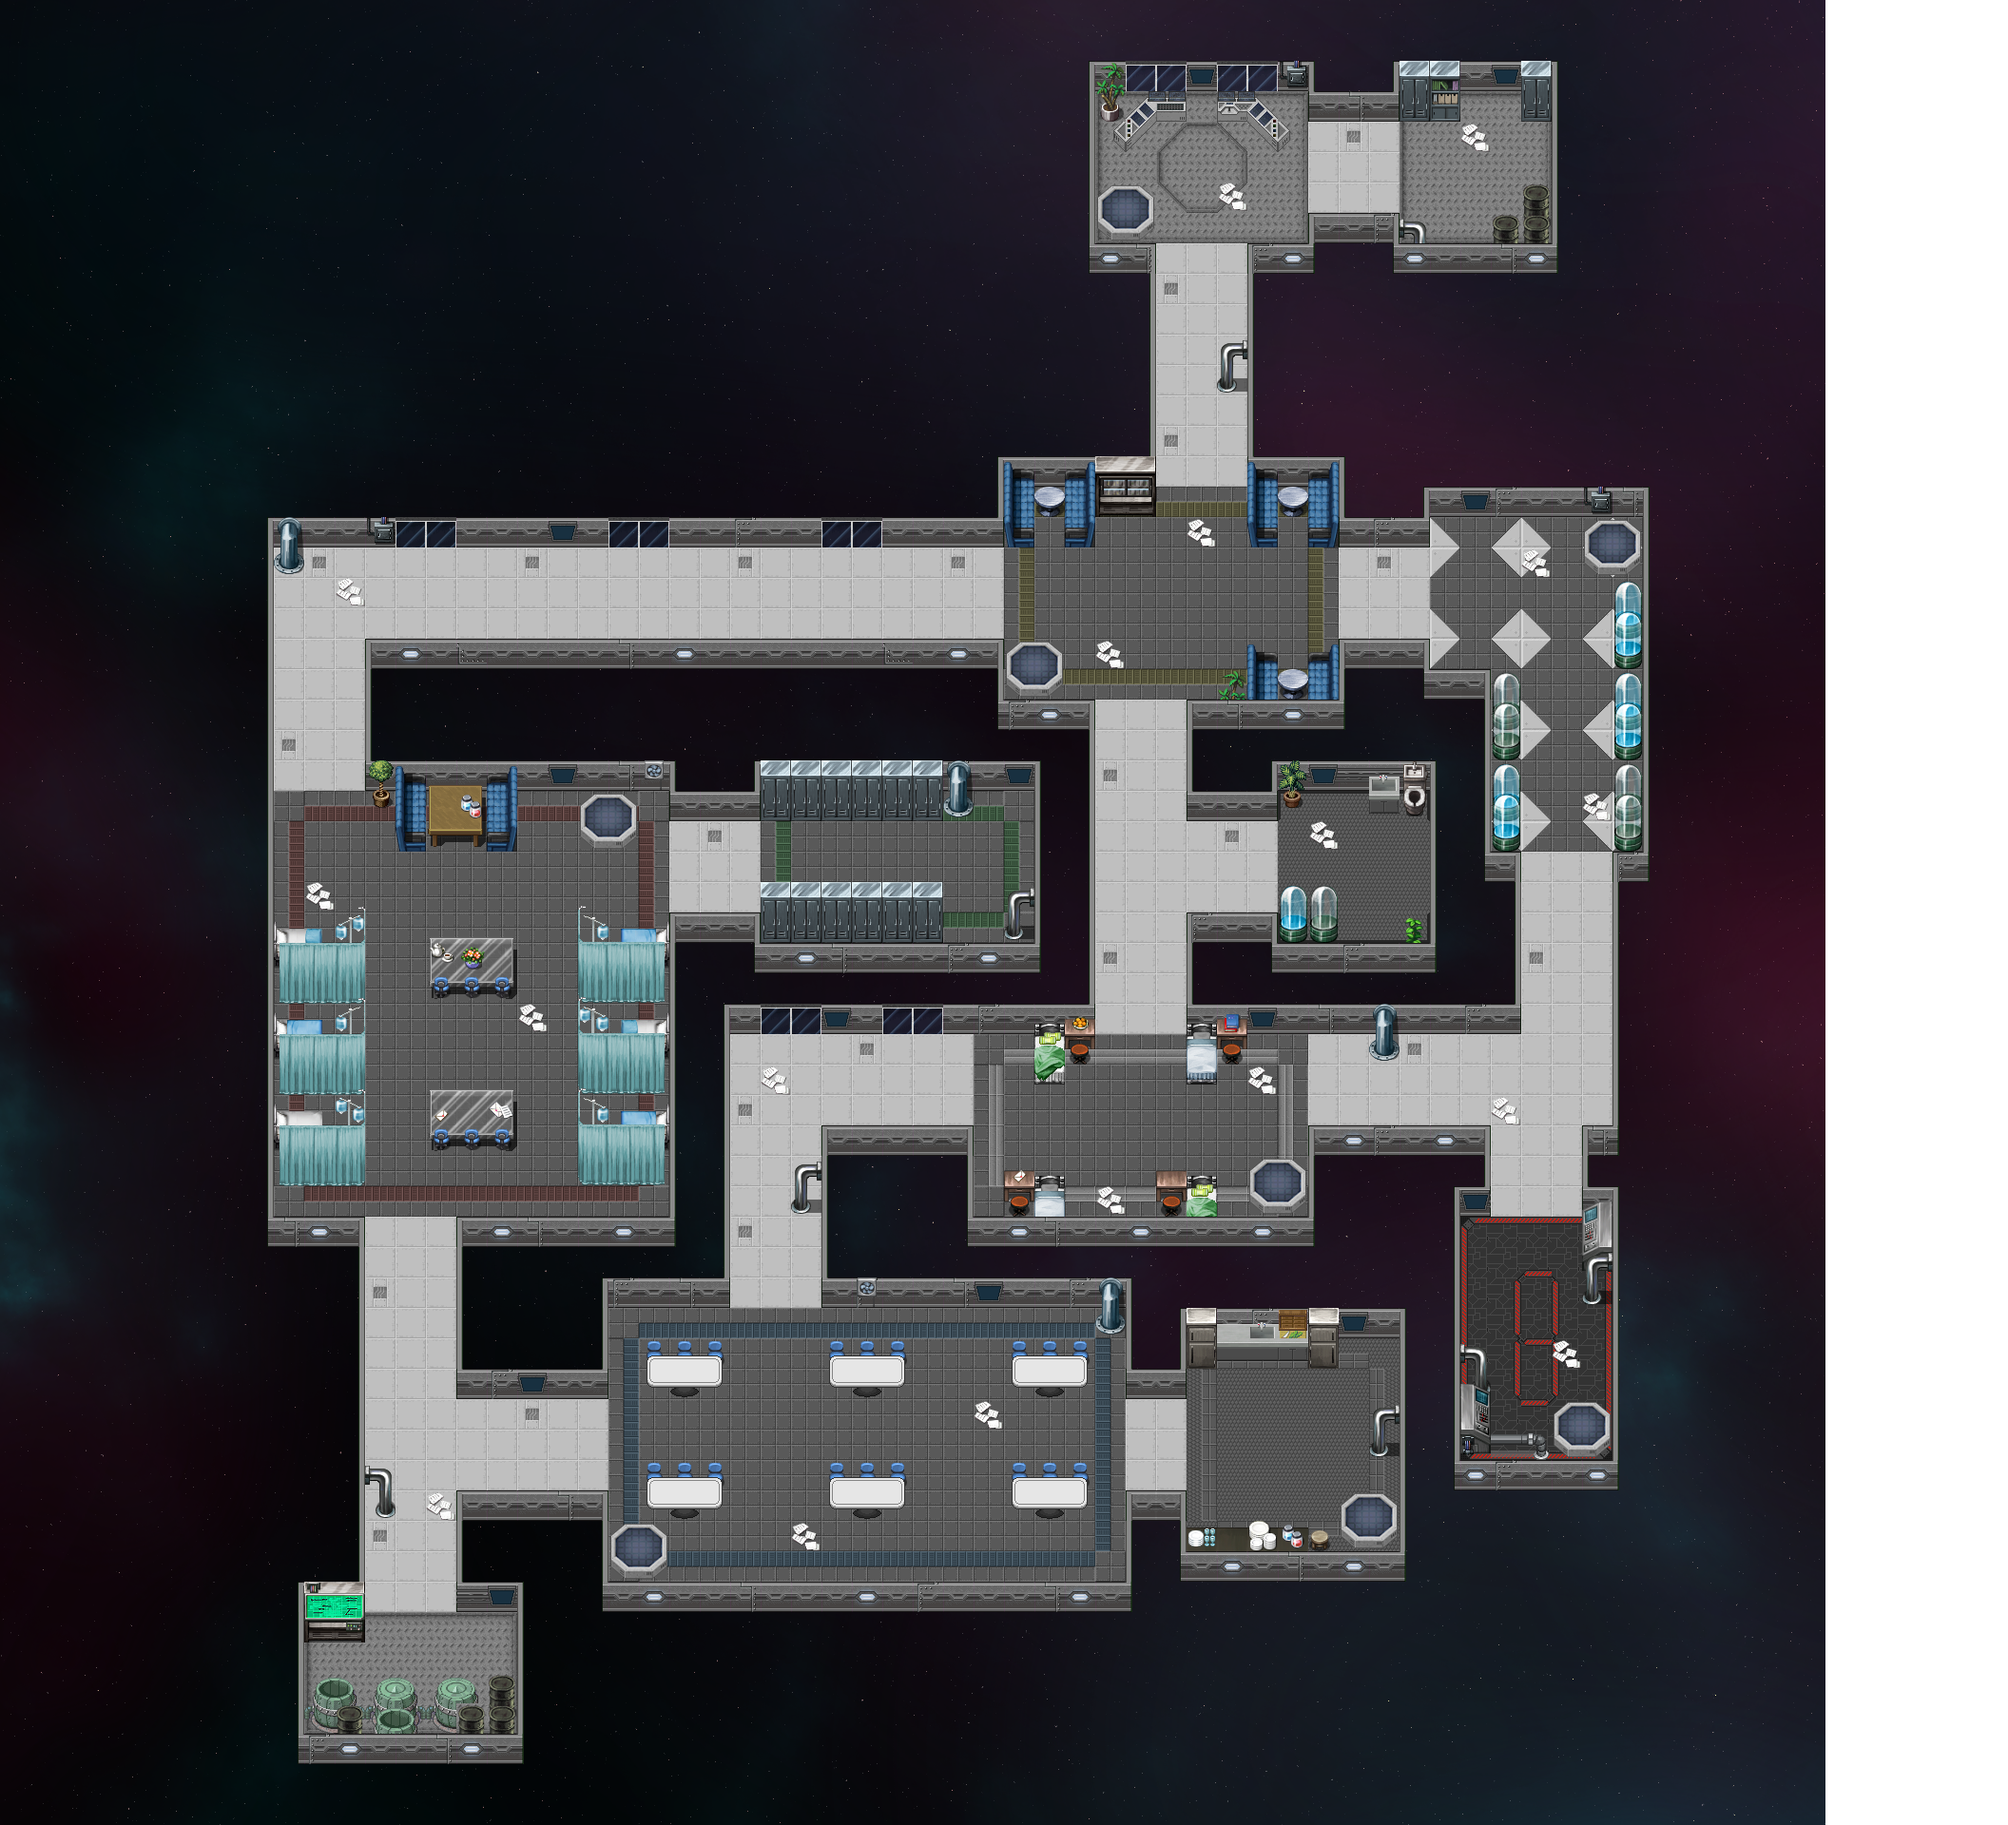
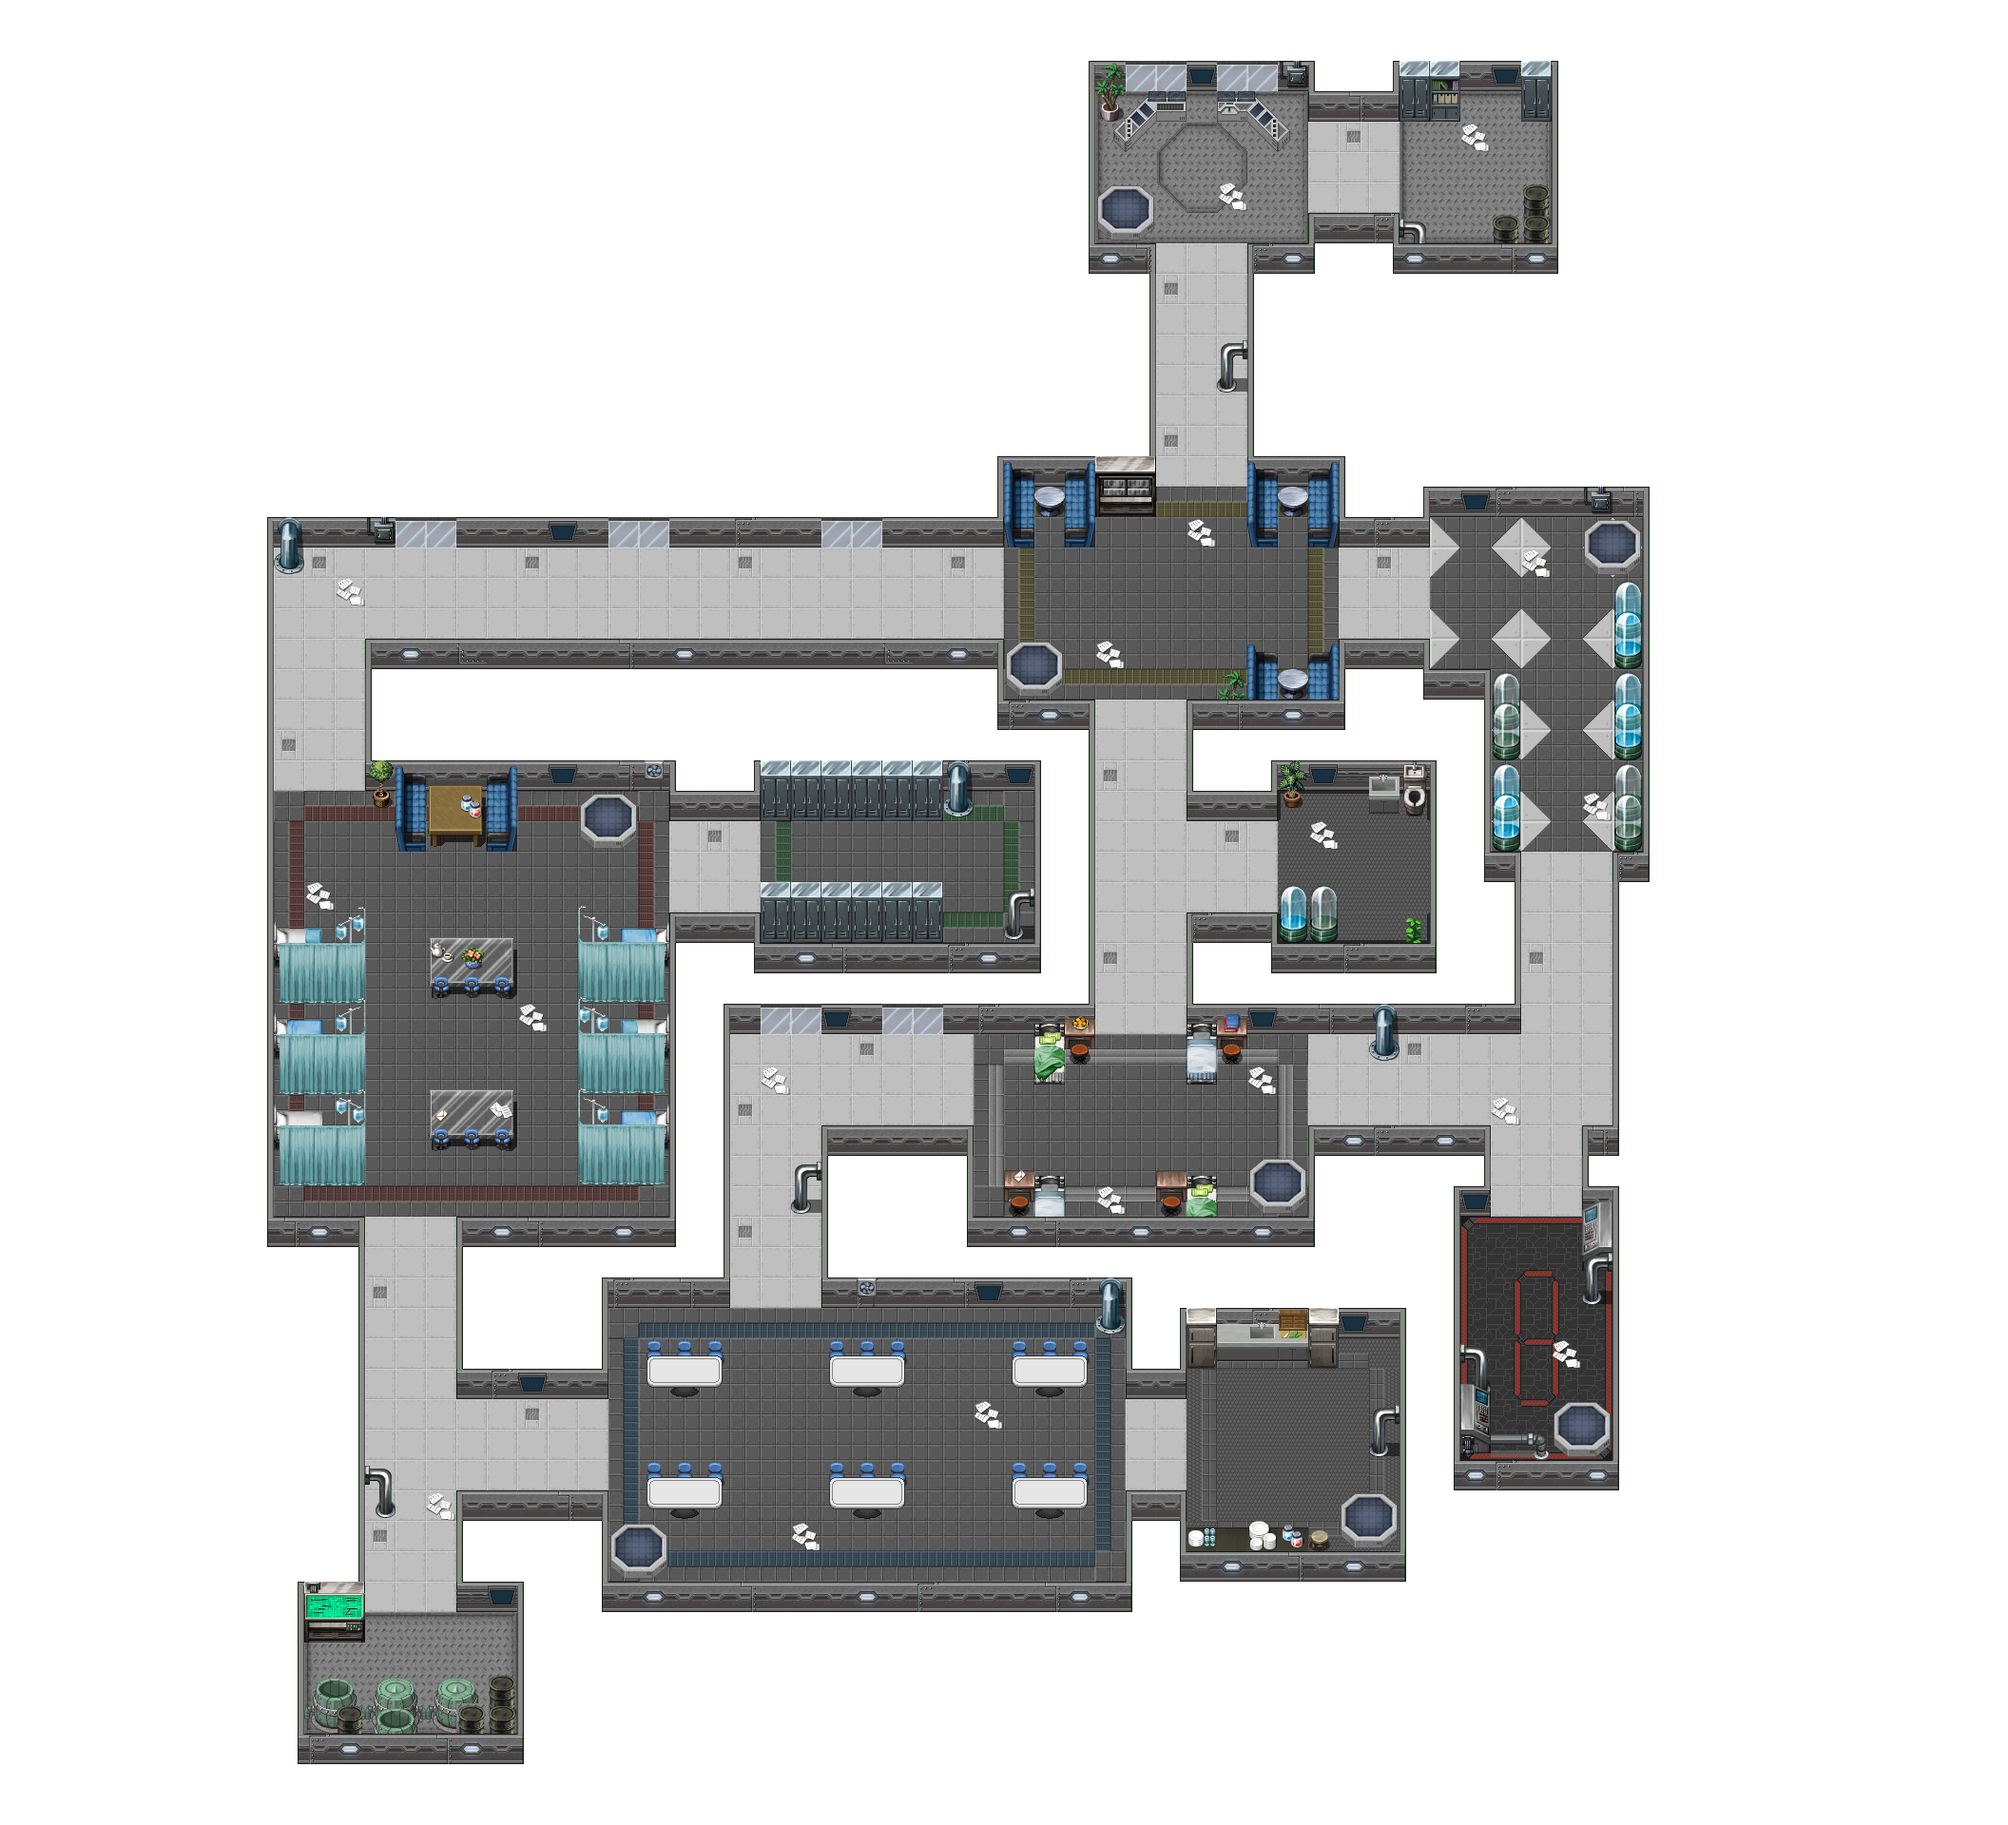
Main Menu + Game Screen Changes
- Added background on main menu.
- Added hover play button.
- Removed tiled background on auber_map_4.0_base.tmx file.
- Added background on game screen which is in place to simulate parallax.
- Fixed a camera bug where the player could enter fullscreen on the menu and then see more of the map while playing.
- Set initial game resolution to 1920x1080.

diff --git a/core/src/com/group4/TitleScreen.java b/core/src/com/group4/TitleScreen.java
@@ -13,7 +13,7 @@ import com.badlogic.gdx.scenes.scene2d.Stage;
 import com.badlogic.gdx.scenes.scene2d.ui.Image;
 import com.badlogic.gdx.scenes.scene2d.ui.Table;
 import com.badlogic.gdx.scenes.scene2d.ui.ImageButton;
-import com.badlogic.gdx.scenes.scene2d.ui.ImageButton.ImageButtonStyle;
+//import com.badlogic.gdx.scenes.scene2d.ui.ImageButton.ImageButtonStyle;
 import com.badlogic.gdx.utils.Align;
 import com.badlogic.gdx.utils.viewport.ExtendViewport;
 
@@ -26,8 +26,8 @@ public class TitleScreen extends ScreenAdapter {
 
     public AuberGame game;
     private Stage stage;
-    private SpriteBatch batch;
-    private TextureRegion backgroundTexture;
+    private TextureRegion backgroundTexture = new TextureRegion(new Texture("Nebula Aqua-Pink.png"), 0, 0, 1920, 1080);
+    private SpriteBatch batch = new SpriteBatch();
 
     public TitleScreen (AuberGame game){
         this.game = game;
@@ -42,6 +42,7 @@ public class TitleScreen extends ScreenAdapter {
         //Create the table and expand it to fill the window
         Table table = new Table();
         table.setFillParent(true);
+        
 
         //Create the logo and add it to the table
         Texture logoTexture = new Texture(Gdx.files.internal("img/logo.png"));
@@ -51,9 +52,11 @@ public class TitleScreen extends ScreenAdapter {
 
 
         //Create the start game button, add it to the table and it click event
-        ImageButtonStyle playStyle =  new ImageButtonStyle();
-        playStyle.imageUp = new TextureRegionDrawable(new TextureRegion(new Texture(Gdx.files.internal("menu/playInactive.png"))));
-        playStyle.imageDown = new TextureRegionDrawable(new TextureRegion(new Texture(Gdx.files.internal("menu/playActive.png"))));
+
+        ImageButton.ImageButtonStyle playStyle =  new ImageButton.ImageButtonStyle();
+        playStyle.up = new TextureRegionDrawable(new TextureRegion(new Texture(Gdx.files.internal("menu/playInactive.png"))));
+        playStyle.down = new TextureRegionDrawable(new TextureRegion(new Texture(Gdx.files.internal("menu/playActive.png"))));
+        playStyle.over = new TextureRegionDrawable(new TextureRegion(new Texture(Gdx.files.internal("menu/playActive.png"))));
         ImageButton playButton = new ImageButton(playStyle);
         table.add(playButton).center();
         table.row();
@@ -79,13 +82,12 @@ public class TitleScreen extends ScreenAdapter {
         Gdx.gl.glClearColor(0, 0, 0, 1);
         Gdx.gl.glClear(GL20.GL_COLOR_BUFFER_BIT);
         
-        backgroundTexture = new TextureRegion(new Texture("spaceBackground.jpg"), 0, 0, 1920, 1080);
-        batch = new SpriteBatch();
-        batch.disableBlending();
+        
         batch.begin();
         batch.draw(backgroundTexture, 0, 0);
         batch.end();
 
+        stage.act(Gdx.graphics.getDeltaTime());
         stage.draw();
     }
 

diff --git a/core/src/com/group4/GameScreen.java b/core/src/com/group4/GameScreen.java
@@ -27,8 +27,8 @@ public class GameScreen extends ScreenAdapter {
     private Map map;
     private OrthographicCamera camera;
     private final float CameraLerp = 2f;
-    private SpriteBatch batch;
-    private TextureRegion backgroundTexture;
+    private SpriteBatch batch = new SpriteBatch();
+    private TextureRegion backgroundTexture = new TextureRegion(new Texture("Nebula Aqua-pink.png"), 0, 0, 1920, 1080);
     public GameScreen (AuberGame game){
         this.game = game;
     }
@@ -41,11 +41,11 @@ public class GameScreen extends ScreenAdapter {
         float w = Gdx.graphics.getWidth();
         float h = Gdx.graphics.getHeight();
         this.camera = new OrthographicCamera();
-        camera.setToOrtho(false,w,h);
+        camera.setToOrtho(false, w, h);
         camera.update();
 
         //Create the stage and allow it to process inputs. Using an Extend Viewport for scalability of the product
-        stage = new Stage(new ExtendViewport(w,h,camera));
+        stage = new Stage(new ExtendViewport(w/3f, h/3f, camera));
         Gdx.input.setInputProcessor(stage);
 
         //Load the map and create it
@@ -71,9 +71,11 @@ public class GameScreen extends ScreenAdapter {
         camera.update();
         map.setView(camera);
 
-        //Render the objects. Rander the bg layers, then the player, then the foreground layers to give the effect of
+        //Render the objects. Render the bg layers, then the player, then the foreground layers to give the effect of
         //3d (as the player can go behind certain objects)
-        //backgroundTexture = new TextureRegion(new Texture("spaceBackground.jpg"), 0, 0, 1920, 1080);
+        batch.begin();
+        batch.draw(backgroundTexture, 0, 0);
+        batch.end();
         map.render(new int[]{0,1,2,3,4,5});
         stage.draw();
         map.render(new int[]{6,7});

diff --git a/desktop/src/com/group4/desktop/DesktopLauncher.java b/desktop/src/com/group4/desktop/DesktopLauncher.java
@@ -6,7 +6,12 @@ import com.group4.AuberGame;
 
 public class DesktopLauncher {
 	public static void main (String[] arg) {
+
 		LwjglApplicationConfiguration config = new LwjglApplicationConfiguration();
+		config.title = "Auber - Group 4";
+		config.width = 1920;
+		config.height = 1080;
 		new LwjglApplication(new AuberGame(), config);
+		
 	}
 }

diff --git a/core/src/com/group4/AuberGame.java b/core/src/com/group4/AuberGame.java
@@ -21,7 +21,6 @@ public class AuberGame extends Game {
 	@Override
 	public void create () {
 		batch = new SpriteBatch();
-		skin = new Skin(Gdx.files.internal("skin/uiskin.json"));
 		setScreen(new TitleScreen(this));
 	}
 
